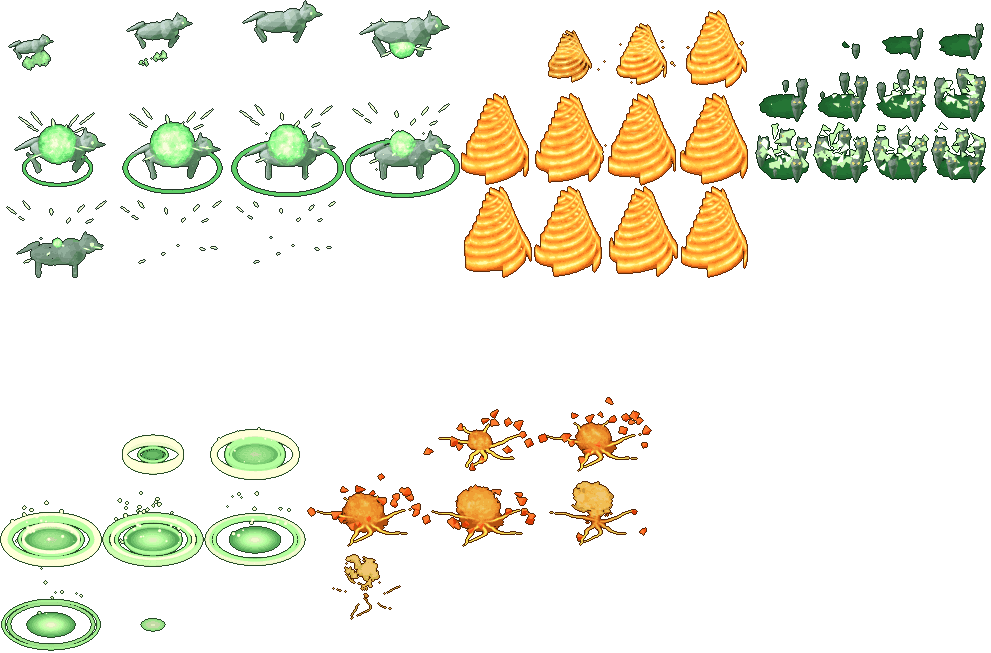
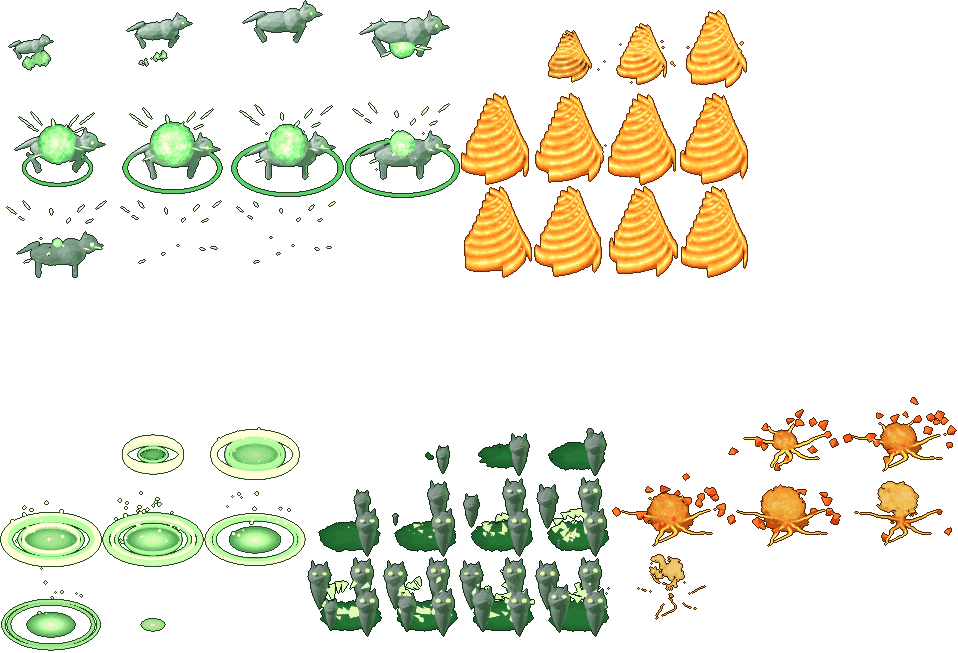
ULT-AUDIT batch 7: a showcase gathers with the hero's own wind-up, not one circle for all; larger wolves' heads
Claude-Session: https://claude.ai/code/session_01RRJtWnKv3aqtC5Z8HqXpVz

diff --git a/src/render/blenderFxData.ts b/src/render/blenderFxData.ts
@@ -7,7 +7,7 @@ import type { BfxClip } from './blenderFxRules';
 export const BFX_DENSITY = 45;
 export const BFX_GLOW_SHRINK = 4;
 /** The hard pixel atlases' sizes, then the soft glow atlases' (`px-<n>.webp`, `soft-<n>.webp`). */
-export const BFX_PX: readonly (readonly [number, number])[] = [[2041, 2022], [1992, 694], [1088, 1104], [808, 1016], [822, 600], [949, 890], [217, 241], [1015, 806], [1137, 1385], [991, 653], [903, 975], [1007, 966], [1016, 805], [584, 250], [1015, 996], [923, 903], [861, 944], [1176, 1280], [1516, 1280], [888, 522], [1137, 1405], [1008, 1200], [1021, 725], [929, 910], [617, 259], [1264, 1028], [807, 605], [1023, 821], [919, 810], [874, 978], [277, 220], [754, 896], [882, 878], [1008, 881], [585, 509], [817, 1019], [901, 810], [980, 813], [802, 784], [858, 814], [286, 241], [1009, 950], [689, 569], [912, 1080], [881, 584], [891, 898], [271, 232], [897, 982], [578, 235], [987, 993], [289, 253], [1018, 1006], [313, 277], [781, 941], [855, 612], [943, 886], [906, 970], [1076, 1048], [938, 695], [917, 874], [451, 496], [984, 1048], [1011, 876], [995, 758], [1516, 1200], [1014, 639], [1137, 1400], [992, 767], [1516, 1200], [871, 926], [829, 809], [945, 614], [1020, 1011], [813, 223], [1018, 1022], [499, 136], [1024, 1018], [699, 226], [1012, 1015], [515, 145], [1019, 991], [492, 148], [1003, 1020], [428, 213], [1015, 1018], [429, 124], [1003, 1006], [960, 208], [1021, 1023], [473, 145], [1024, 1008], [650, 226]];
+export const BFX_PX: readonly (readonly [number, number])[] = [[2041, 2022], [1992, 694], [1088, 1104], [808, 1016], [822, 600], [949, 890], [217, 241], [1015, 806], [1137, 1385], [958, 653], [903, 975], [1007, 966], [1016, 805], [584, 250], [1015, 996], [923, 903], [861, 944], [1176, 1280], [1516, 1280], [888, 522], [1137, 1405], [1008, 1200], [1021, 725], [929, 910], [617, 259], [1264, 1028], [807, 605], [1023, 821], [919, 810], [874, 978], [277, 220], [754, 896], [882, 878], [1008, 881], [585, 509], [817, 1019], [901, 810], [980, 813], [802, 784], [858, 814], [286, 241], [1009, 950], [689, 569], [912, 1080], [881, 584], [891, 898], [271, 232], [897, 982], [578, 235], [987, 993], [289, 253], [1018, 1006], [313, 277], [781, 941], [855, 612], [943, 886], [906, 970], [1076, 1048], [938, 695], [917, 874], [451, 496], [984, 1048], [1011, 876], [995, 758], [1516, 1200], [1014, 639], [1137, 1400], [992, 767], [1516, 1200], [871, 926], [829, 809], [945, 614], [1020, 1011], [813, 223], [1018, 1022], [499, 136], [1024, 1018], [699, 226], [1012, 1015], [515, 145], [1019, 991], [492, 148], [1003, 1020], [428, 213], [1015, 1018], [429, 124], [1003, 1006], [960, 208], [1021, 1023], [473, 145], [1024, 1008], [650, 226]];
 export const BFX_SOFT: readonly (readonly [number, number])[] = [[2041, 1319]];
 /** The pixel atlases every fight may need (the spells, the ground loops): loaded up front. The rest are loaded when a fight needs them. */
 export const BFX_CORE: readonly number[] = [0, 1];
@@ -270,7 +270,7 @@ export const BFX_CLIPS: Readonly<Record<string, BfxClip>> = {
   'ult-barbarian-windup': {"a": 15, "x": 631, "y": 0, "w": 97, "h": 86, "n": 12, "cols": 3, "ax": 48.5, "ay": 61.6, "ms": 1600, "loop": false, "hold": 9, "layer": "over", "el": "blood", "cuts": [[0, 11], [3, 11]], "sc": ["flare", "shout"]},
   'ult-beastmaster-aftermath': {"a": 9, "x": 0, "y": 397, "w": 102, "h": 85, "n": 9, "cols": 3, "ax": 51.0, "ay": 58.4, "ms": 2100, "loop": false, "hold": 4, "layer": "over", "el": "forest", "cuts": [[0, 7], [1, 8]], "sc": ["ring", "motes"]},
   'ult-beastmaster-strike': {"a": 9, "x": 0, "y": 0, "w": 115, "h": 99, "n": 13, "cols": 4, "ax": 57.5, "ay": 69.9, "ms": 1300, "loop": false, "hold": 6, "layer": "over", "el": "forest", "cuts": [[0, 8], [3, 12]], "sc": ["beast", "sparks"], "at": "each"},
-  'ult-beastmaster-windup': {"a": 9, "x": 754, "y": 0, "w": 59, "h": 61, "n": 12, "cols": 4, "ax": 29.5, "ay": 45.7, "ms": 2200, "loop": false, "hold": 9, "layer": "over", "el": "forest", "cuts": [[0, 11], [3, 11]], "sc": ["eyes", "swarm"]},
+  'ult-beastmaster-windup': {"a": 9, "x": 307, "y": 397, "w": 76, "h": 80, "n": 12, "cols": 4, "ax": 43.0, "ay": 60.0, "ms": 2200, "loop": false, "hold": 11, "layer": "over", "el": "forest", "cuts": [[0, 11], [3, 11]], "sc": ["eyes", "swarm"]},
   'ult-bellWarden-aftermath': {"a": 59, "x": 283, "y": 573, "w": 104, "h": 84, "n": 9, "cols": 3, "ax": 52.0, "ay": 57.4, "ms": 1700, "loop": false, "hold": 3, "layer": "over", "el": "shadow", "cuts": [[0, 7], [1, 8]], "sc": ["ring", "veil"]},
   'ult-bellWarden-strike': {"a": 59, "x": 0, "y": 0, "w": 162, "h": 143, "n": 13, "cols": 4, "ax": 81.0, "ay": 101.6, "ms": 1300, "loop": false, "hold": 5, "layer": "over", "el": "shadow", "cuts": [[0, 8], [3, 12]], "sc": ["shout", "ring"], "at": "self"},
   'ult-bellWarden-windup': {"a": 59, "x": 649, "y": 0, "w": 89, "h": 75, "n": 12, "cols": 3, "ax": 44.5, "ay": 61.6, "ms": 1900, "loop": false, "hold": 8, "layer": "over", "el": "shadow", "cuts": [[0, 11], [4, 11]], "sc": ["shout", "crystal"]},
@@ -448,7 +448,7 @@ export const BFX_CLIPS: Readonly<Record<string, BfxClip>> = {
   'ult-werewolf-aftermath': {"a": 41, "x": 696, "y": 661, "w": 104, "h": 88, "n": 9, "cols": 3, "ax": 52.0, "ay": 61.2, "ms": 1700, "loop": false, "hold": 3, "layer": "over", "el": "blood", "cuts": [[0, 7], [1, 8]], "sc": ["ring", "souls"]},
   'ult-werewolf-strike': {"a": 41, "x": 0, "y": 0, "w": 170, "h": 165, "n": 13, "cols": 4, "ax": 85.0, "ay": 122.8, "ms": 1300, "loop": false, "hold": 6, "layer": "over", "el": "blood", "cuts": [[0, 8], [3, 12], [1, 11]], "sc": ["claws", "shout", "flare"], "at": "self"},
   'ult-werewolf-windup': {"a": 41, "x": 0, "y": 661, "w": 94, "h": 96, "n": 12, "cols": 4, "ax": 47.0, "ay": 71.0, "ms": 1900, "loop": false, "hold": 8, "layer": "over", "el": "blood", "cuts": [[0, 11], [3, 11], [6, 11]], "sc": ["ring", "shout", "claws"]},
-  'ult-wizard-aftermath': {"a": 9, "x": 307, "y": 397, "w": 115, "h": 75, "n": 9, "cols": 3, "ax": 59.5, "ay": 49.6, "ms": 1800, "loop": false, "hold": 4, "layer": "over", "el": "fire", "cuts": [[0, 7], [1, 8]], "sc": ["crack", "smoke"]},
+  'ult-wizard-aftermath': {"a": 9, "x": 612, "y": 397, "w": 115, "h": 75, "n": 9, "cols": 3, "ax": 59.5, "ay": 49.6, "ms": 1800, "loop": false, "hold": 4, "layer": "over", "el": "fire", "cuts": [[0, 7], [1, 8]], "sc": ["crack", "smoke"]},
   'ult-wizard-strike': {"a": 8, "x": 0, "y": 0, "w": 379, "h": 277, "n": 13, "cols": 3, "ax": 189.5, "ay": 183.0, "ms": 1300, "loop": false, "hold": 4, "layer": "over", "el": "fire", "cuts": [[1, 12], [0, 8], [3, 12]], "sc": ["impact", "burst", "crack"]},
   'ult-wizard-windup': {"a": 9, "x": 461, "y": 0, "w": 73, "h": 93, "n": 12, "cols": 4, "ax": 35.5, "ay": 69.9, "ms": 2000, "loop": false, "hold": 8, "layer": "over", "el": "fire", "cuts": [[0, 11], [3, 11]], "sc": ["vortex", "flames"]},
   'ult-wolfBard-aftermath': {"a": 52, "x": 0, "y": 0, "w": 104, "h": 92, "n": 9, "cols": 3, "ax": 52.0, "ay": 65.2, "ms": 1700, "loop": false, "hold": 3, "layer": "over", "el": "wind", "cuts": [[0, 7], [1, 8]], "sc": ["ring", "spiral"]},

diff --git a/src/render/fx.ts b/src/render/fx.ts
@@ -76,7 +76,7 @@ import { AREA_PAINT, SNARE, type AreaPaint, AURA_ALPHA, AURA_ALPHA_OF, AURA_MOTE
 import { SLASH_HOP_MS, type WallKind } from '../sim/toolkit';
 import { loadSpellArt, spellFrames } from './spellArt';
 import { bfxFrames, bfxGlows, loadBlenderFx, warmBfx } from './blenderFxArt';
-import { BFX_FADE_MS, BFX_FLY_FROM, BFX_FLY_MS, BFX_GLOW_ALPHA, BFX_LINE_GLOW, BFX_GLOW_SCALE, BFX_SCALE, BFX_WALL_SPELL, SPELL_LAY, SPELL_STANDS, ULT_BFX, ZONE_BFX, bfxAlpha, bfxCentre, ultPlace, ultSpots, ultLinked, ULT_LINK_MS, beatBfx, beatLine, BEAT_LINE, type BeatClip, ultBfx, type UltStageName, bfxBox, bfxBudget, bfxClip, bfxFrame, bfxLife, groundBfx, spellBfx, standPhase, type SpellPartName } from './blenderFxRules';
+import { BFX_FADE_MS, BFX_FLY_FROM, BFX_FLY_MS, BFX_GLOW_ALPHA, BFX_LINE_GLOW, BFX_GLOW_SCALE, BFX_SCALE, BFX_WALL_SPELL, SPELL_LAY, SPELL_STANDS, ULT_BFX, ZONE_BFX, bfxAlpha, bfxCentre, BEAT_OWN, ultPlace, ultSpots, ultLinked, ULT_LINK_MS, beatBfx, beatLine, BEAT_LINE, type BeatClip, ultBfx, type UltStageName, bfxBox, bfxBudget, bfxClip, bfxFrame, bfxLife, groundBfx, spellBfx, standPhase, type SpellPartName } from './blenderFxRules';
 import { boostedScale, burstPart, epicEvent, KIT, ultScale, ULT_EPIC } from '../ultEpicRules';
 import { ultWeight } from '../ultStageRules';
 import { SHOWCASES } from '../ultShowRules';
@@ -793,7 +793,7 @@ export class Fx {
   /** ULT-SHOW (`ultShow.ts`): one beat of an ultimate's showcase, drawn on the moment's layer (it runs while the fight is held), in the
    *  colours of its element (`el`). (x, y) is a fighter's feet or a tile's ground, `tall` its height; `to` a foe (a cut, a blow) or the far
    *  end (a dash, a hook). The painted toolkit's parts when they are there, else the pack's. */
-  showBeat(kind: ShowBeat, x: number, y: number, o: { tall?: number; to?: { x: number; y: number; tall: number }; el?: Element; how?: 'bolt' | 'flame' | 'bullet' } = {}): void {
+  showBeat(kind: ShowBeat, x: number, y: number, o: { tall?: number; to?: { x: number; y: number; tall: number }; el?: Element; how?: 'bolt' | 'flame' | 'bullet'; hero?: string } = {}): void {
     const m = this.moment;
     const el = o.el ?? 'dark';
     const tint = ULT_TINT[el];
@@ -802,7 +802,7 @@ export class Fx {
     m.density = budget.density;
     m.cap = budget.cap;
     // (BLENDER-FX: the beat as rendered clips, when its element's are loaded; else the painted parts and the pack's, below)
-    if (this.bfxShowBeat(kind, x, y, el, o.to, o.how)) return;
+    if (this.bfxShowBeat(kind, x, y, el, o.to, o.how, o.hero)) return;
     const smoke = (n: number, s: number) => {
       for (let i = 0; i < n; i++) m.spawn({ frames: VFX.smokeDark, x: x + jitter(14), y: y - lift + jitter(10), scale: s, life: 650, vy: -0.035, grow: 0.0009, alpha: 0.85, delay: i * 25 });
     };
@@ -1006,7 +1006,11 @@ export class Fx {
   /** BLENDER-FX: a beat of a showcase as rendered clips (`beat-*`, `tools/blender-fx/effects.py`), in the showcase's element. A clip
    *  stands on its tile's ground, so it is put at the feet. A line (a dash, a hook, a blessing) is a row of small clips. False when the
    *  beat's first clip is not loaded: the older parts play then. The shakes are the beats' own, as they were. */
-  private bfxShowBeat(kind: ShowBeat, x: number, y: number, el: Element, to?: { x: number; y: number; tall: number }, how?: 'bolt' | 'flame' | 'bullet'): boolean {
+  private bfxShowBeat(kind: ShowBeat, x: number, y: number, el: Element, to?: { x: number; y: number; tall: number }, how?: 'bolt' | 'flame' | 'bullet', hero?: string): boolean {
+    // (ULT-AUDIT: on the caster, a showcase's gathering, its call and its finish were one circle, one ring and one burst for every hero
+    // in its colour. A hero with a wind-up of its own gathers with THAT (its ability beginning, played again through the showcase); its
+    // call is only the dust it kicks up and its finish a small flare, so nothing shared stands in front of what the ability is)
+    const own = hero && ultBfx(hero, 'windup', ultWeight(hero)) === `ult-${hero}-windup` ? hero : undefined;
     const B = (clip: BeatClip, px: number, py: number, o: Parameters<Fx['bfxBeat']>[4] = {}, e: Element = el) => this.bfxBeat(clip, e, px, py, o);
     const line = (clip: BeatClip, x0: number, y0: number, x1: number, y1: number, lag: number = BEAT_LINE.LAG) => {
       let any = false;
@@ -1092,6 +1096,7 @@ export class Fx {
         shake(0.04);
         return true;
       case 'gather':
+        if (own && this.bfxUlt(own, 'windup', x, y, BEAT_OWN.GATHER_MS)) return true;
         return B('gather', x, y, { lit: true });
       case 'mark':
         if (!B('mark', x, y, { lit: true })) return false;
@@ -1101,6 +1106,7 @@ export class Fx {
         // (what falls, seen high over the mark and coming down the slant its sheet was rendered at)
         return B('sky', x + 80, y - 200, { life: 900, mult: 1.3, vx: -0.07, vy: 0.078 });
       case 'call':
+        if (own) return B('dust', x, y);
         if (!B('call', x, y)) return false;
         B('nova', x, y, { delay: 60 });
         return true;
@@ -1110,7 +1116,7 @@ export class Fx {
         shake(0.08);
         return true;
       case 'finish':
-        return B('nova', x, y);
+        return own ? B('appear', x, y, { mult: BEAT_OWN.FINISH }) : B('nova', x, y);
     }
   }
 

diff --git a/test/ult-audit.test.ts b/test/ult-audit.test.ts
@@ -9,7 +9,7 @@ import '../src/sim/battle';
 import { AURA_MOTES } from '../src/render/movePaints';
 import { auraLook } from '../src/render/toolkitLooks';
 import { BFX_CLIPS } from '../src/render/blenderFxData';
-import { ULT_LINK_MS, ultLinked, ultPlace, ultSpots } from '../src/render/blenderFxRules';
+import { BEAT_OWN, ULT_LINK_MS, ultLinked, ultPlace, ultSpots } from '../src/render/blenderFxRules';
 import { SHOWCASES } from '../src/ultShowRules';
 
 test('Spirit Guardians shows its guardians: spirits a fighter tall circling the Cleric for as long as the aura lasts', () => {
@@ -106,4 +106,16 @@ test('a strike on each one the ability touched finds them: the friends helped (a
   assert.deepEqual(BFX_CLIPS['ult-gorgon-windup'].sc, ['vines', 'eye']);
   assert.deepEqual(BFX_CLIPS['ult-geomancer-strike'].sc, ['slab', 'crack']);
   assert.equal(BFX_CLIPS['ult-sage-strike'].sc![0], 'dome');
+});
+
+test('on the caster a showcase gathers with the hero\'s own wind-up, not one circle for every hero; its call and finish are small', () => {
+  const fx = readFileSync('src/render/fx.ts', 'utf8');
+  // (the hero's kind reaches the beat from the showcase)
+  assert.match(readFileSync('src/ultShow.ts', 'utf8'), /fx\.showBeat\(b\.kind, p\[0\], p\[1\], \{ tall, el, hero: plan\.kind \}\);/);
+  assert.match(fx, /if \(own && this\.bfxUlt\(own, 'windup', x, y, BEAT_OWN\.GATHER_MS\)\) return true;/);
+  assert.match(fx, /if \(own\) return B\('dust', x, y\);/);
+  assert.match(fx, /return own \? B\('appear', x, y, \{ mult: BEAT_OWN\.FINISH \}\) : B\('nova', x, y\);/);
+  // (every hero has a wind-up of its own to gather with)
+  for (const kind of Object.keys(SHOWCASES)) assert.ok(BFX_CLIPS[`ult-${kind}-windup`], kind);
+  assert.ok(BEAT_OWN.GATHER_MS >= 1000 && BEAT_OWN.FINISH < 1);
 });

diff --git a/src/render/blenderFxRules.ts b/src/render/blenderFxRules.ts
@@ -188,6 +188,10 @@ export function beatBfx(clip: BeatClip, el: string): string | undefined {
  *  (`warmBfx`), so they are there when the ultimate is fired. */
 export const beatKeys = (el: string): string[] => Object.keys(BFX_CLIPS).filter((k) => k.startsWith('beat-') && (k.endsWith(`-${el}`) || k.split('-').length === 2));
 
+/** ULT-AUDIT: a hero's own showcase beats on the caster: how long its own wind-up plays again as the showcase's gathering (ms), and how
+ *  large its finish's flare is drawn. */
+export const BEAT_OWN = { GATHER_MS: 1800, FINISH: 0.8 } as const;
+
 /** A line of a showcase (a dash's dust, a hook's reach, a blessing's ribbon) is a row of small clips along it, one every `BEAT_LINE.STEP`
  *  world px (two at least, `MAX` at most), each `LAG` ms after the one before: the points, with the far end last. */
 export const BEAT_LINE = { STEP: 26, MAX: 9, LAG: 30 } as const;

diff --git a/test/blender-fx.test.ts b/test/blender-fx.test.ts
@@ -381,7 +381,7 @@ test('a showcase\'s beats are rendered clips in its element: every clip in every
   assert.deepEqual(mid[0], [0, BEAT_LINE.STEP]);
   // (every beat the showcases plan has a rendered path, tried before the painted parts and the pack's; the fight warms them)
   const fx = readFileSync('src/render/fx.ts', 'utf8');
-  assert.match(fx, /if \(this\.bfxShowBeat\(kind, x, y, el, o\.to, o\.how\)\) return;/);
+  assert.match(fx, /if \(this\.bfxShowBeat\(kind, x, y, el, o\.to, o\.how, o\.hero\)\) return;/);
   const beats = /export type ShowBeat = ([^;]+);/.exec(fx)![1].split('|').map((k) => k.trim().replace(/'/g, ''));
   const body = fx.slice(fx.indexOf('private bfxShowBeat('), fx.indexOf('/** ULT-SHOW: a painted prop'));
   for (const kind of beats) assert.ok(body.includes(`case '${kind}':`), `${kind} has a rendered beat`);

diff --git a/src/ultShow.ts b/src/ultShow.ts
@@ -287,7 +287,8 @@ export class UltShow {
         fx.showBeat('land', p[0], p[1], { tall: b.foe !== undefined ? this.opts.sprite(b.foe)?.tall : tall, el });
         return;
       default:
-        fx.showBeat(b.kind, p[0], p[1], { tall, el });
+        // (ULT-AUDIT: the hero's kind goes with a beat on the caster, so its gathering is the hero's own wind-up and not one circle for all)
+        fx.showBeat(b.kind, p[0], p[1], { tall, el, hero: plan.kind });
     }
   }
 

diff --git a/tools/blender-fx/scenes.py b/tools/blender-fx/scenes.py
@@ -1730,7 +1730,7 @@ def beast(c, size=1.0, puffs=3):
 
 
 # 57. Eyes: pairs of eyes opening one after another in dark brush round the middle, watching, blinking. What is about to be called.
-def eyes(c, r=1.3, n=5):
+def eyes(c, r=1.3, n=5, size=1.0):
     # (wolves' heads lifting out of the dark one after another: a dark grey head with two pricked ears and a snout, and two amber eyes
     # side by side that open, watch and blink. Animals, plainly, and plainly pairs of eyes)
     em, ev = c.flat((1.0, 0.62, 0.12), 1.5)
@@ -1746,6 +1746,8 @@ def eyes(c, r=1.3, n=5):
         ears = [c.cone(1.0, 1.0, fm, 4), c.cone(1.0, 1.0, fm, 4)]
         heads.append((ang, rad, head, neck, snout, ears, [c.sphere(1.0, em, 1), c.sphere(1.0, em, 1)], k / n * 0.6, c.rnd.uniform(0.5, 0.9)))
 
+    k = size
+
     def step(t):
         c.tick(t, 0.8)
         gone = win(t, 0.88, 1)
@@ -1754,15 +1756,15 @@ def eyes(c, r=1.3, n=5):
         for ang, rad, head, neck, snout, ears, pair, lag, blink in heads:
             x, y = math.cos(ang) * rad, math.sin(ang) * rad
             g = ease(win(t, lag, lag + 0.3))
-            z = 0.1 + 0.5 * g
-            put(neck, (x, y, z * 0.5), (0.2 * g + 0.001, 0.2 * g + 0.001, 0.34 * g + 0.001), (math.pi, 0, 0))
-            put(head, (x, y, z), 0.19 * g + 0.001)
-            put(snout, (x + TOWARDS[0] * 0.2 * g, y + TOWARDS[1] * 0.2 * g, z - 0.05 + TOWARDS[2] * 0.2 * g), (0.085 * g + 0.001, 0.085 * g + 0.001, 0.2 * g + 0.001), (math.radians(60), 0, math.radians(-45) + math.pi))
+            z = (0.1 + 0.5 * g) * k
+            put(neck, (x, y, z * 0.5), (0.2 * g * k + 0.001, 0.2 * g * k + 0.001, 0.34 * g * k + 0.001), (math.pi, 0, 0))
+            put(head, (x, y, z), 0.19 * g * k + 0.001)
+            put(snout, (x + TOWARDS[0] * 0.2 * g * k, y + TOWARDS[1] * 0.2 * g * k, z - 0.05 * k + TOWARDS[2] * 0.2 * g * k), (0.085 * g * k + 0.001, 0.085 * g * k + 0.001, 0.2 * g * k + 0.001), (math.radians(60), 0, math.radians(-45) + math.pi))
             for side, e in zip((-1, 1), ears):
-                put(e, (x + RIGHT[0] * side * 0.11 * g, y + RIGHT[1] * side * 0.11 * g, z + 0.2 * g), (0.06 * g + 0.001, 0.06 * g + 0.001, 0.2 * g + 0.001), (0, side * 0.25, 0))
+                put(e, (x + RIGHT[0] * side * 0.11 * g * k, y + RIGHT[1] * side * 0.11 * g * k, z + 0.2 * g * k), (0.06 * g * k + 0.001, 0.06 * g * k + 0.001, 0.2 * g * k + 0.001), (0, side * 0.25, 0))
             opened = win(t, lag + 0.2, lag + 0.28) * (0.12 if abs(t - blink) < 0.03 else 1.0)
             for side, e in zip((-1, 1), pair):
-                put(e, (x + TOWARDS[0] * 0.17 + RIGHT[0] * side * 0.085, y + TOWARDS[1] * 0.17 + RIGHT[1] * side * 0.085, z + 0.04 + TOWARDS[2] * 0.17), (0.045, 0.045, 0.04 * opened + 0.001))
+                put(e, (x + (TOWARDS[0] * 0.17 + RIGHT[0] * side * 0.085) * k, y + (TOWARDS[1] * 0.17 + RIGHT[1] * side * 0.085) * k, z + (0.04 + TOWARDS[2] * 0.17) * k), (0.045 * k, 0.045 * k, 0.04 * opened * k + 0.001))
                 hide(e, opened <= 0.01 or gone >= 1)
             for o in (head, neck, snout, *ears):
                 hide(o, g <= 0.01 or gone >= 1)

diff --git a/tools/blender-fx/effects.py b/tools/blender-fx/effects.py
@@ -178,7 +178,7 @@ BIG = dict(
     veil=(dict(r=1.0, h=2.0, panes=9), 1.6, 2.6), portal=(dict(r=1.0, z=1.2), 1.8, 3.2), pillar=(dict(r=0.9, h=3.2, sparks=30), 1.8, 3.6),
     shout=(dict(r=1.8, h=1.6, n=5), 2.2, 3.2), swarm=(dict(r=1.5, h=2.0, n=30), 1.9, 2.6), motes=(dict(r=1.6, h=2.2, n=34, crosses=7), 2.0, 2.6),
     hearts=(dict(r=1.0, h=2.0, n=9), 1.5, 2.6), wall=(dict(length=3.0, h=1.7, tongues=9), 2.4, 2.2), flames=(dict(r=1.3, h=1.3, tongues=9), 1.9, 2.2),
-    palisade=(dict(length=3.2, h=1.7, n=8), 2.4, 2.2), beast=(dict(size=2.3), 1.9, 2.2), eyes=(dict(r=1.5, n=6), 2.1, 1.6),
+    palisade=(dict(length=3.2, h=1.7, n=8), 2.4, 2.2), beast=(dict(size=2.3), 1.9, 2.2), eyes=(dict(r=1.9, n=4, size=2.6), 2.6, 2.4),
     implode=(dict(r=1.9, n=16, z=0.8), 2.5, 2.3), slab=(dict(r=0.9, n=6, h=1.3, dark=True), 1.7, 1.9), shaft=(dict(r=0.6, h=3.2, slant=0.4), 2.6, 3.8),
 )
 

diff --git a/docs/notes/ult-audit.md b/docs/notes/ult-audit.md
@@ -163,6 +163,21 @@ green blobs, the Geomancer's slabs small and pale.
 - **Mountain's Embrace**: an ultimate's slabs are heavy stone now (`dark` in `slab`: deep in colour, thicker, with the sheet's dark
   edge) and a fifth larger. In the fight: dark standing stones in rings on five spots, strong against the pale ground.
 
+## Batch 7: the showcase's own sameness
+
+`docs/samples/blender-fx/audit-batch7-show-393-1.jpg` (`SHOW=1`: two moments of the wind-up, then four of the showcase itself, which
+plays through the first part of the strike's stage before the blow).
+
+A hand-fired ultimate plays its showcase, and on the caster every showcase began with the same three beats in its colour: a circle and
+what is drawn into it (`gather`), a ring going out along the ground with a ring of small tongues (`call`), and that ring of tongues
+again at the end (`finish`). That was the "gold circle" seen on the Cleric, and it was the same on every hero. Now, for a hero with a
+wind-up of its own (all 70): the showcase gathers with THAT wind-up, played again over 1.8 s (the Knight's slab and dome, the
+Wanderer's fountain, the wolves' heads); its call is only the dust it kicks up; its finish is a small flare. The hero's kind reaches
+the beat from `ultShow.ts` (`hero`). The beats on foes and friends (a cut, a mark, a blessing's line, a landing) are as they were.
+
+Also in this batch: the Beastmaster's wolves' heads are larger and further apart (four of them, each about a fighter's head and
+shoulders).
+
 ## The audit of all 70
 
 To come, in batches: for each ultimate, what it does in the sim, what 0.499 showed, what main shows now, and the verdict; then the ten
